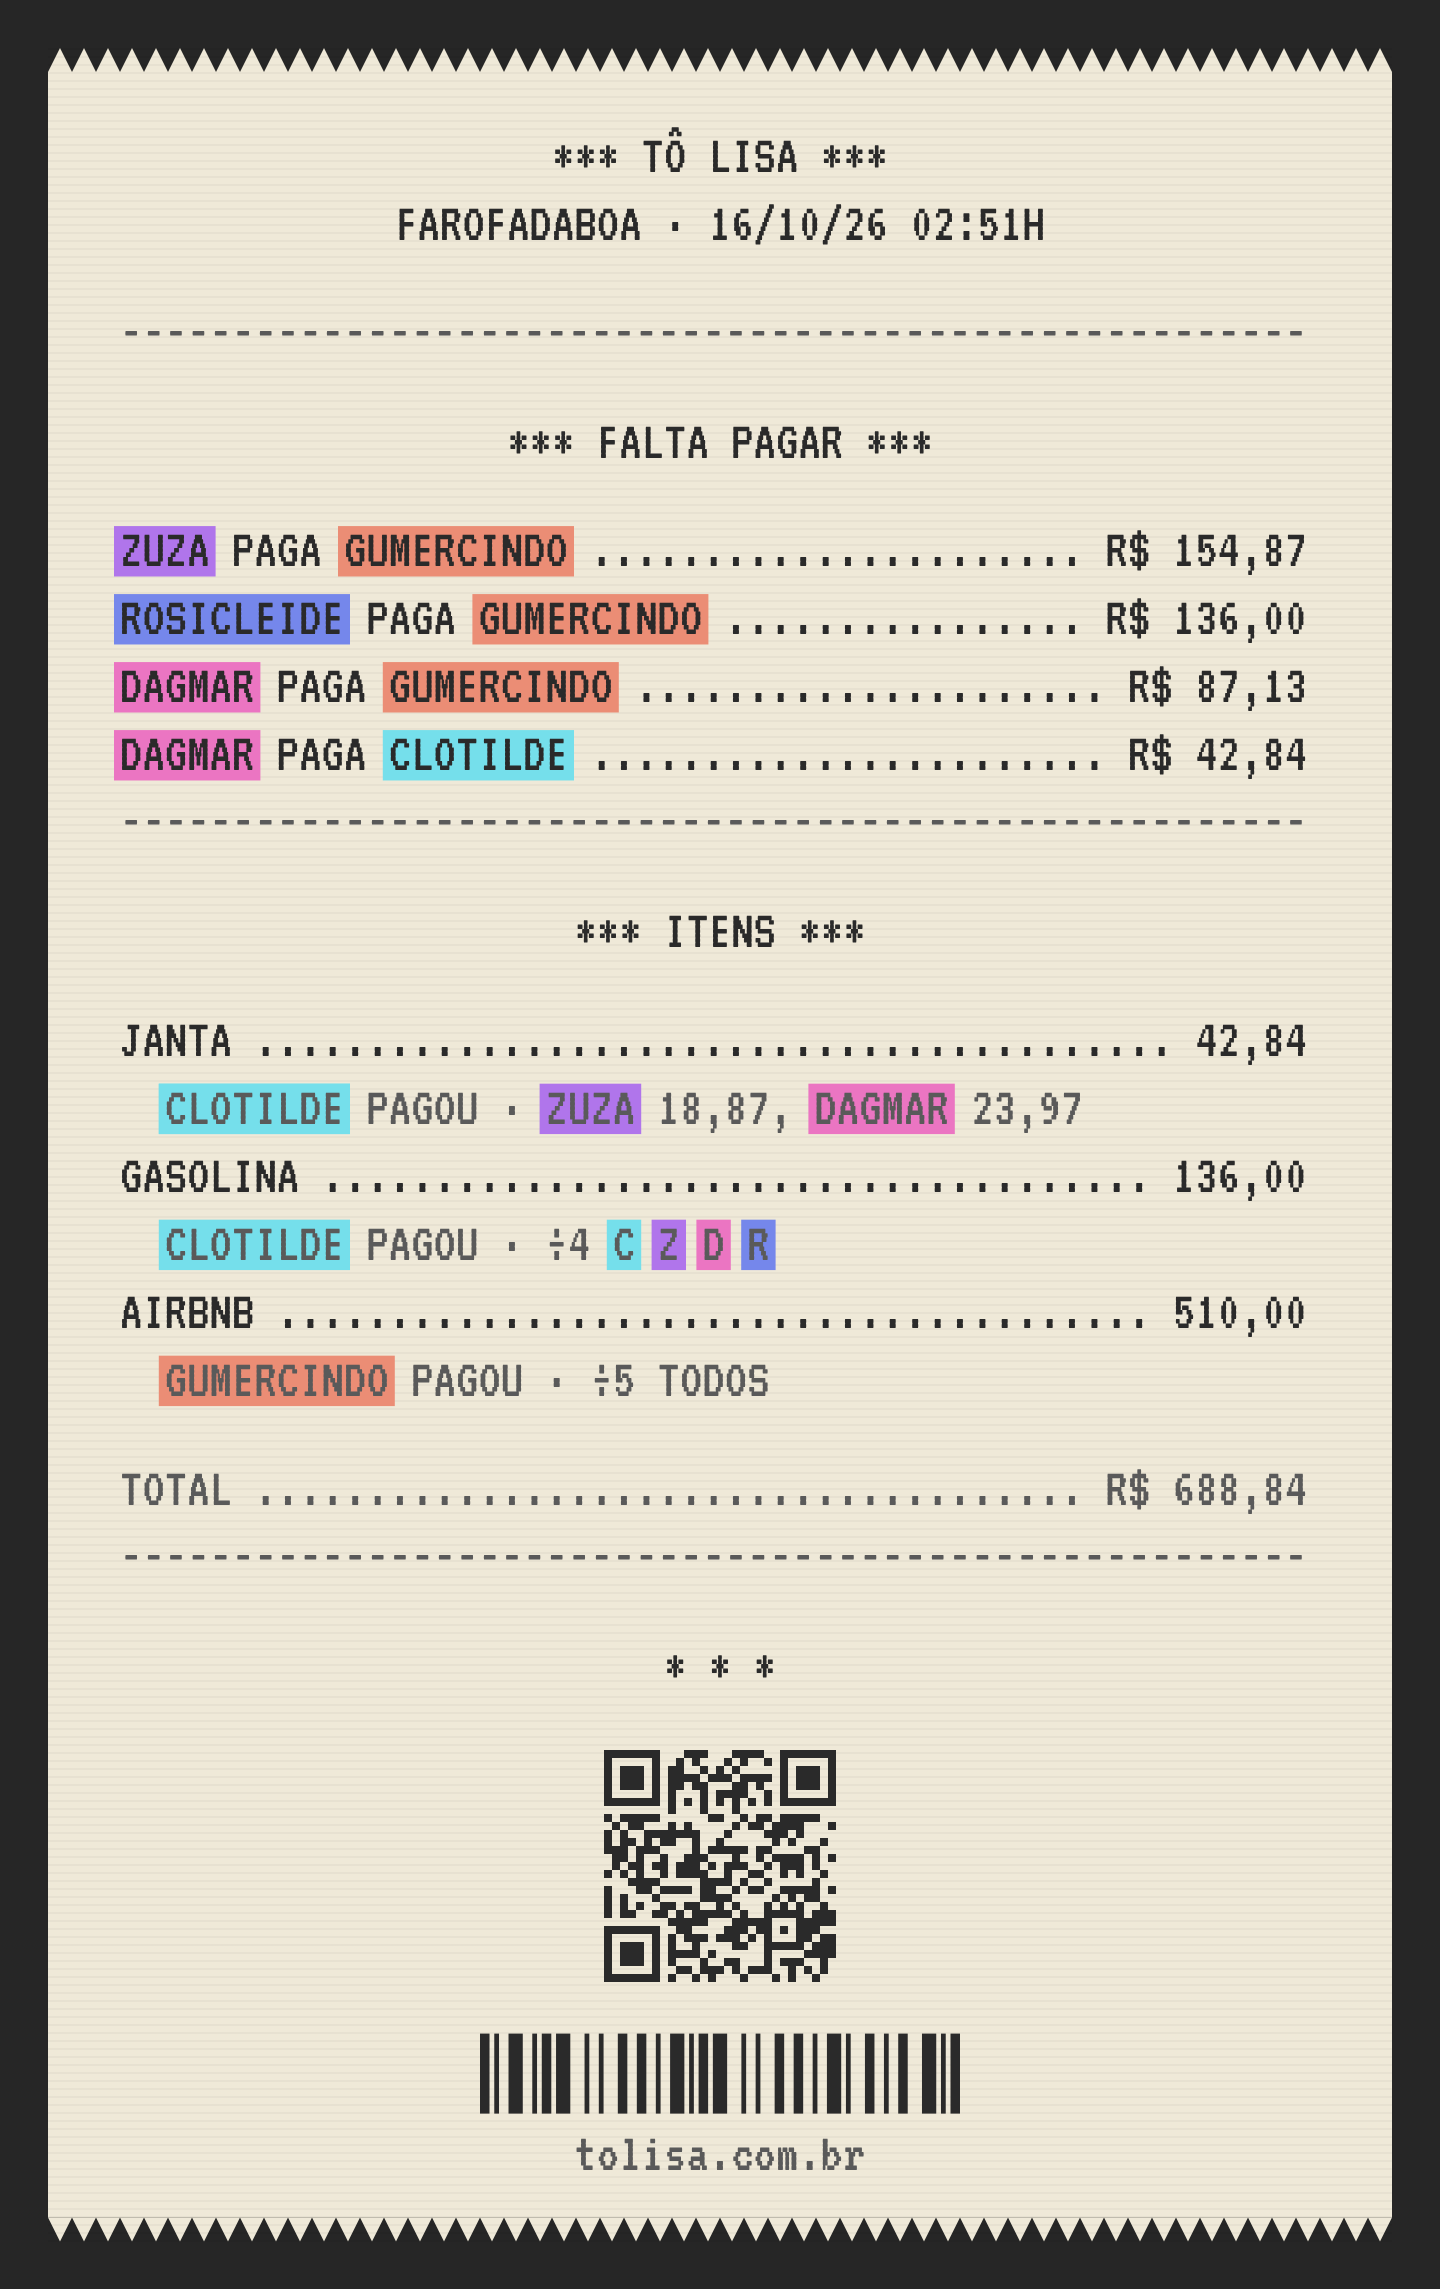
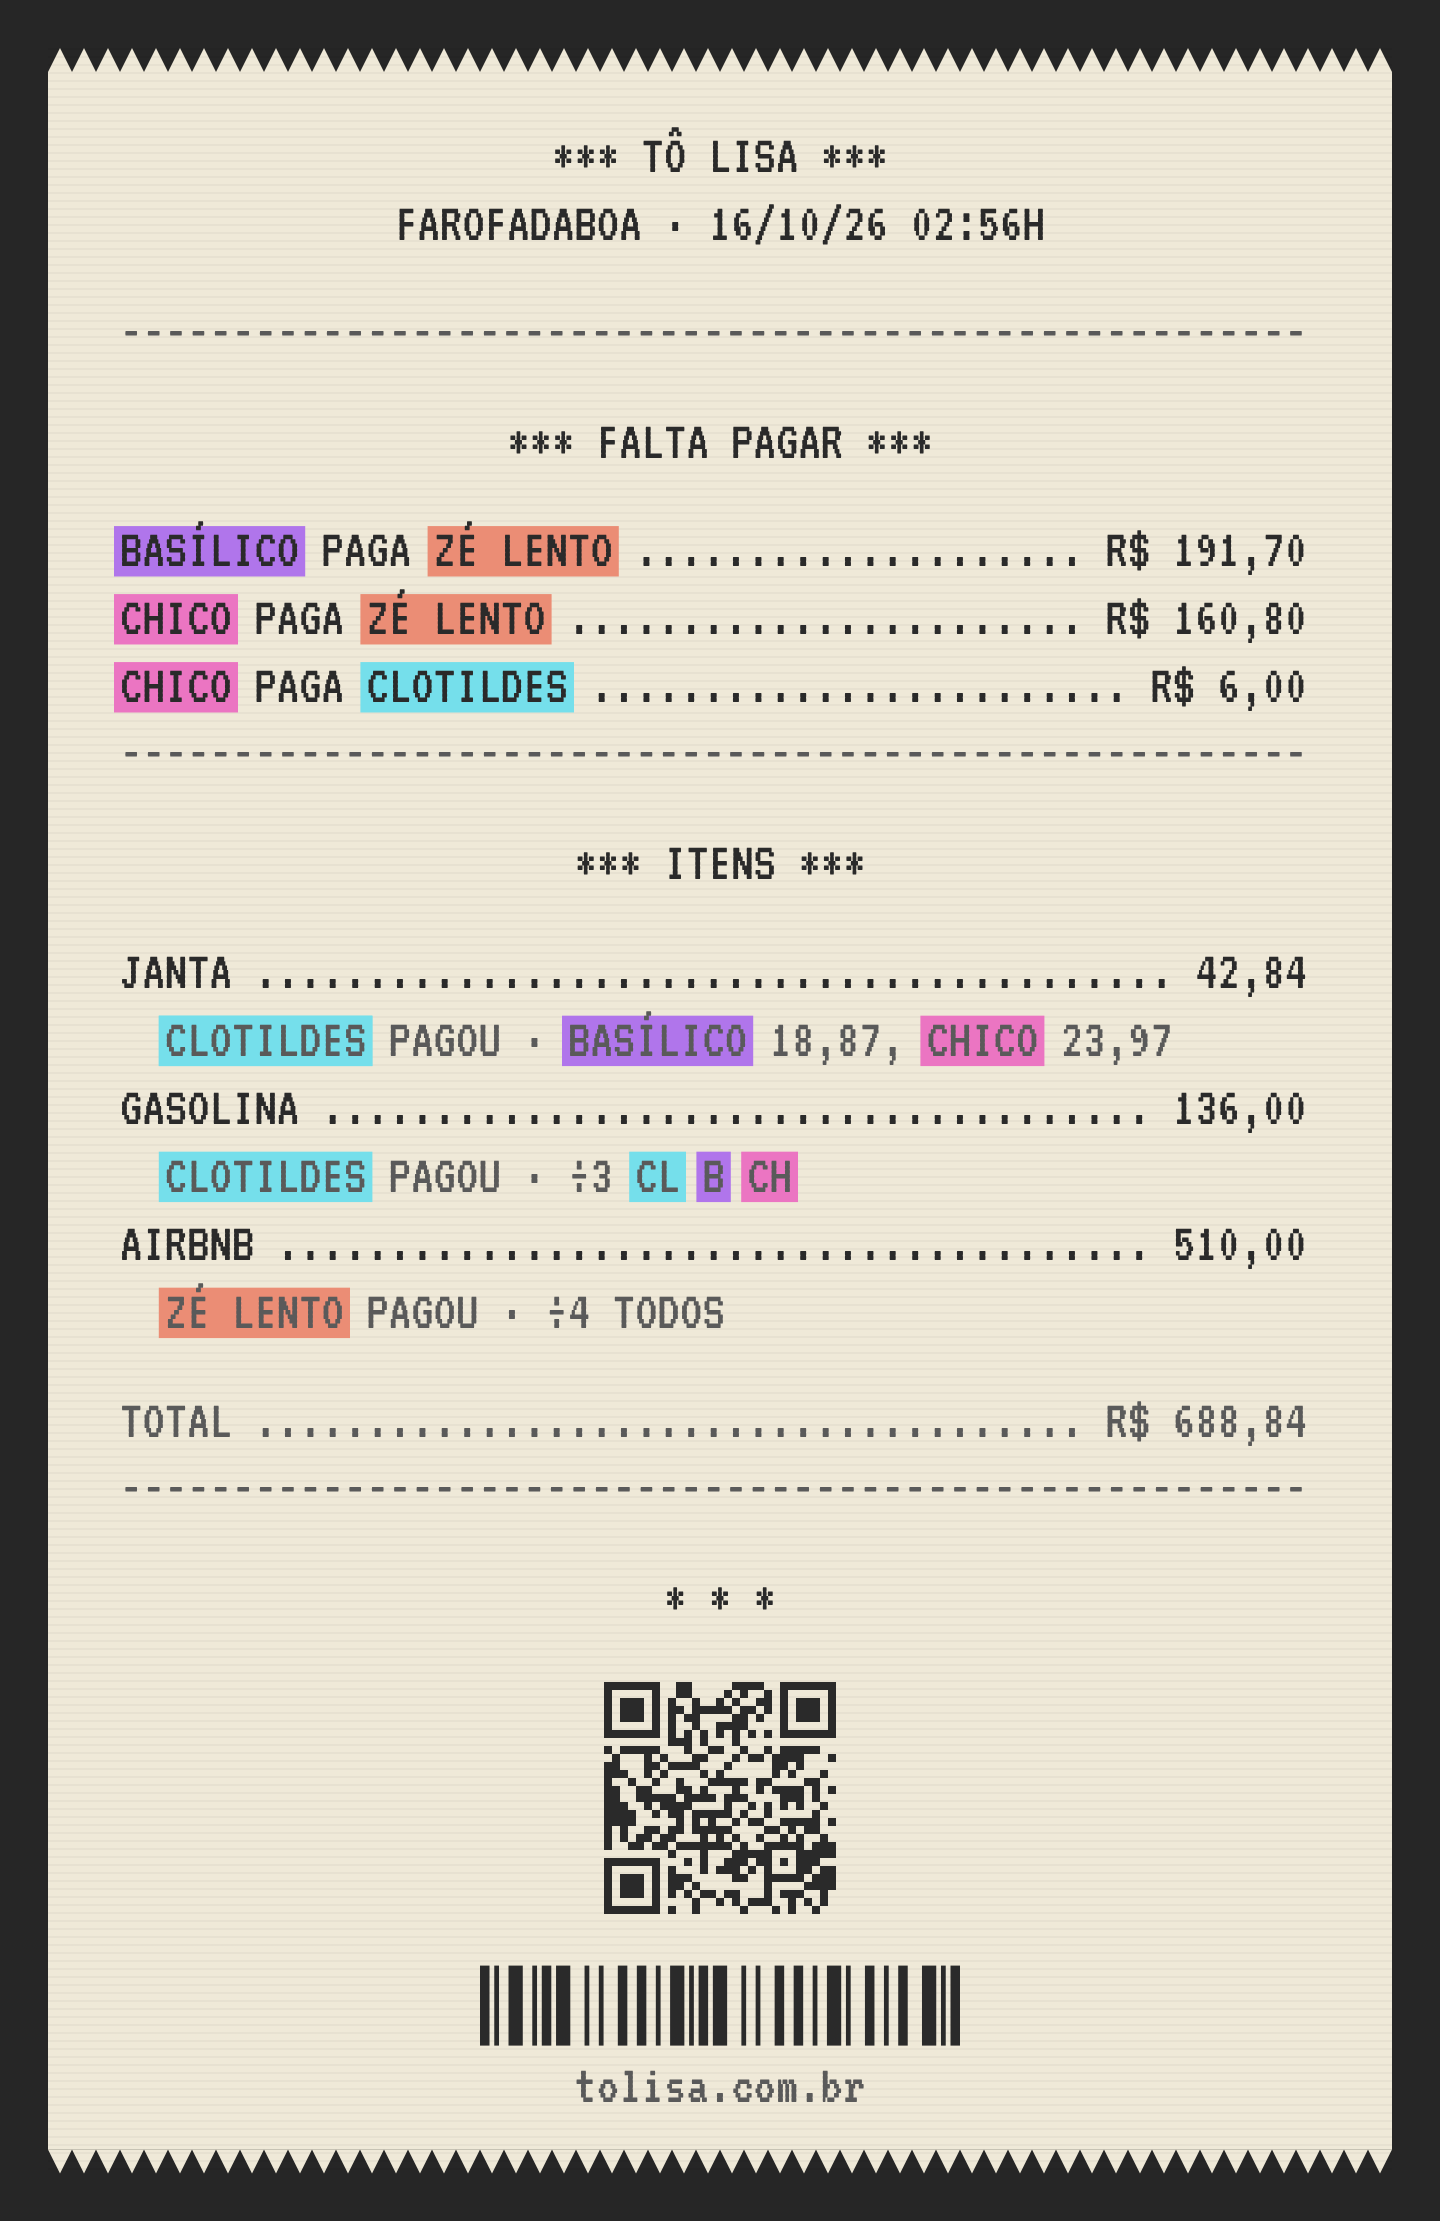
README: Zé Lento, Clotildes, Basílico e Chico
Os quatro nomes que o dono escolheu; quem fica sem nome (o quinto dos
dados de exemplo) sai do evento e das divisões no readme.cjs.

Claude-Session: https://claude.ai/code/session_01BbZoGc5WCi5VPc9ZNuRMzV

diff --git a/README.md b/README.md
@@ -3,7 +3,7 @@
 Divisor de gastos entre amigos: racha a conta e anota quem deve, sem aplicativo e sem cadastro. É um site estático (HTML, CSS e JavaScript, sem build) publicado em [tolisa.com.br](https://tolisa.com.br/), com os dados no Firebase Realtime Database.
 
 <p align="center">
-  <img src="docs/readme/passeio.gif" width="300" alt="A Zuza chega pelo link, escolhe o nome, abre os itens, quita a dívida com a Clotilde e a nota vira tudo quite; no fim, o tema troca entre papel, neon e grafite">
+  <img src="docs/readme/passeio.gif" width="300" alt="Basílico chega pelo link, escolhe o nome, abre os itens, quita a dívida com Clotildes e a nota vira tudo quite; no fim, o tema troca entre papel, neon e grafite">
 </p>
 
 | criar o evento | anotar um gasto | a imagem que vai pro zap |
@@ -16,7 +16,7 @@ O "tema:" no pé da nota troca entre papel, neon, grafite e o do celular (que se
 
 | papel | neon | grafite |
 | :---: | :---: | :---: |
-| <img src="docs/readme/tema-papel.png" width="240" alt="A nota da Zuza no tema papel"> | <img src="docs/readme/tema-neon.png" width="240" alt="A nota da Zuza no tema neon"> | <img src="docs/readme/tema-grafite.png" width="240" alt="A nota da Zuza no tema grafite"> |
+| <img src="docs/readme/tema-papel.png" width="240" alt="A nota de Basílico no tema papel"> | <img src="docs/readme/tema-neon.png" width="240" alt="A nota de Basílico no tema neon"> | <img src="docs/readme/tema-grafite.png" width="240" alt="A nota de Basílico no tema grafite"> |
 
 ## Como usar
 
